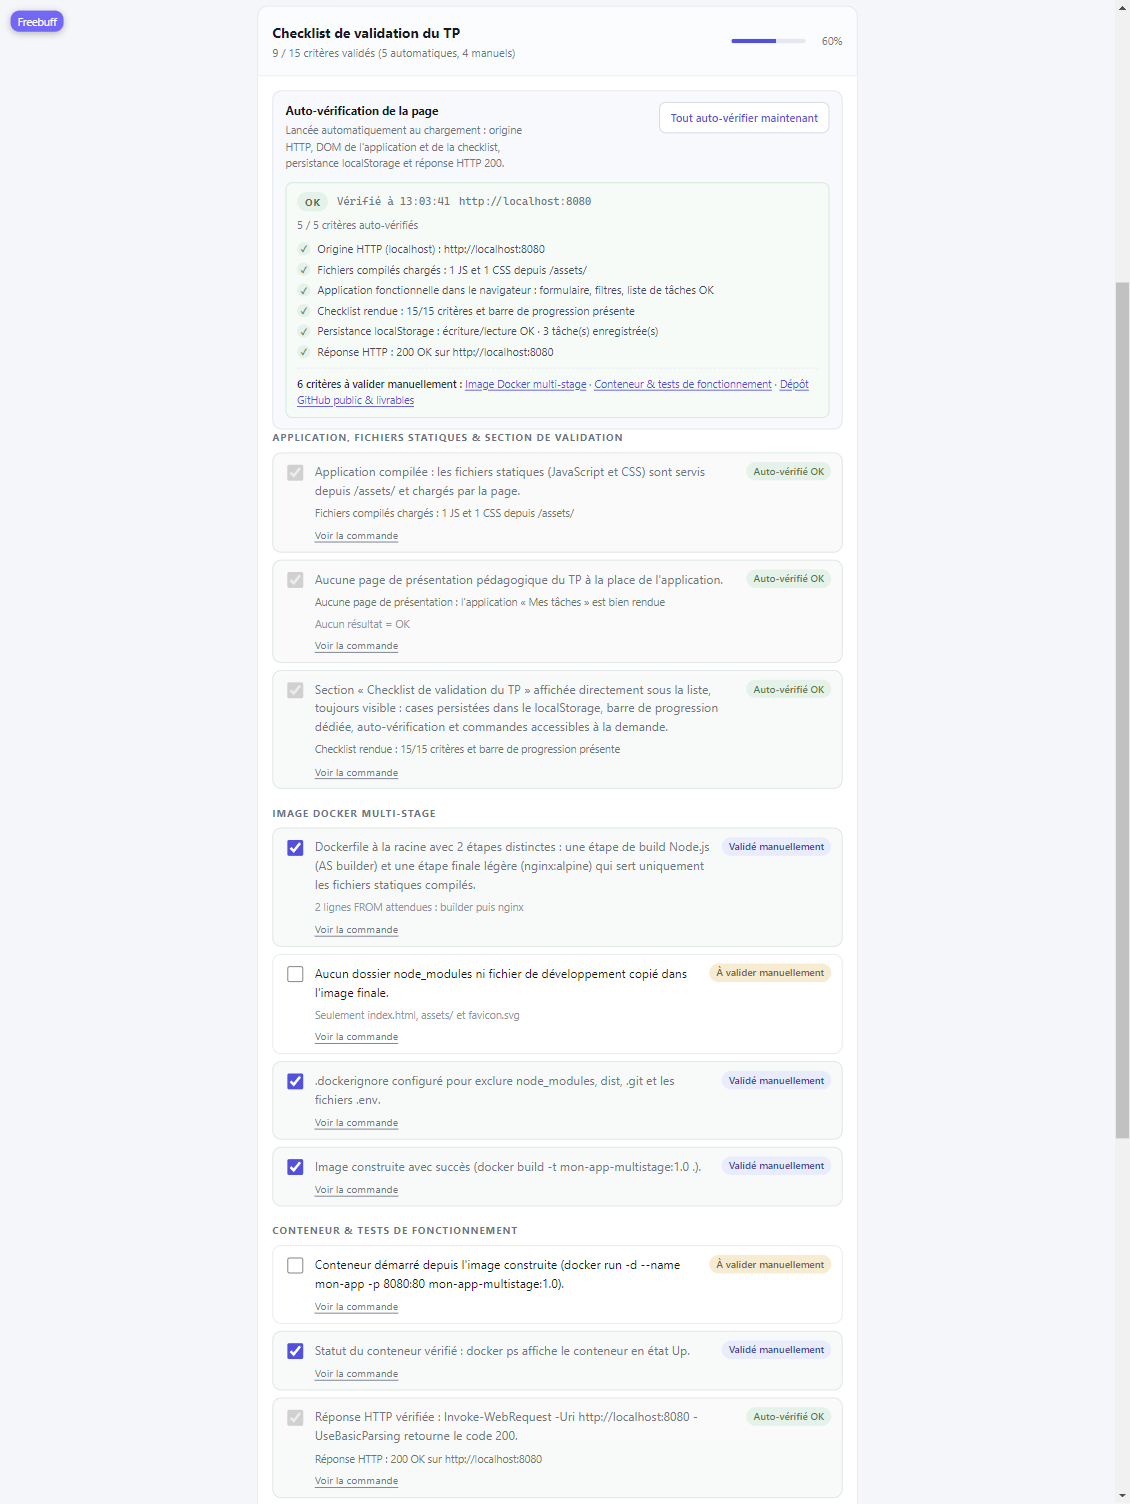
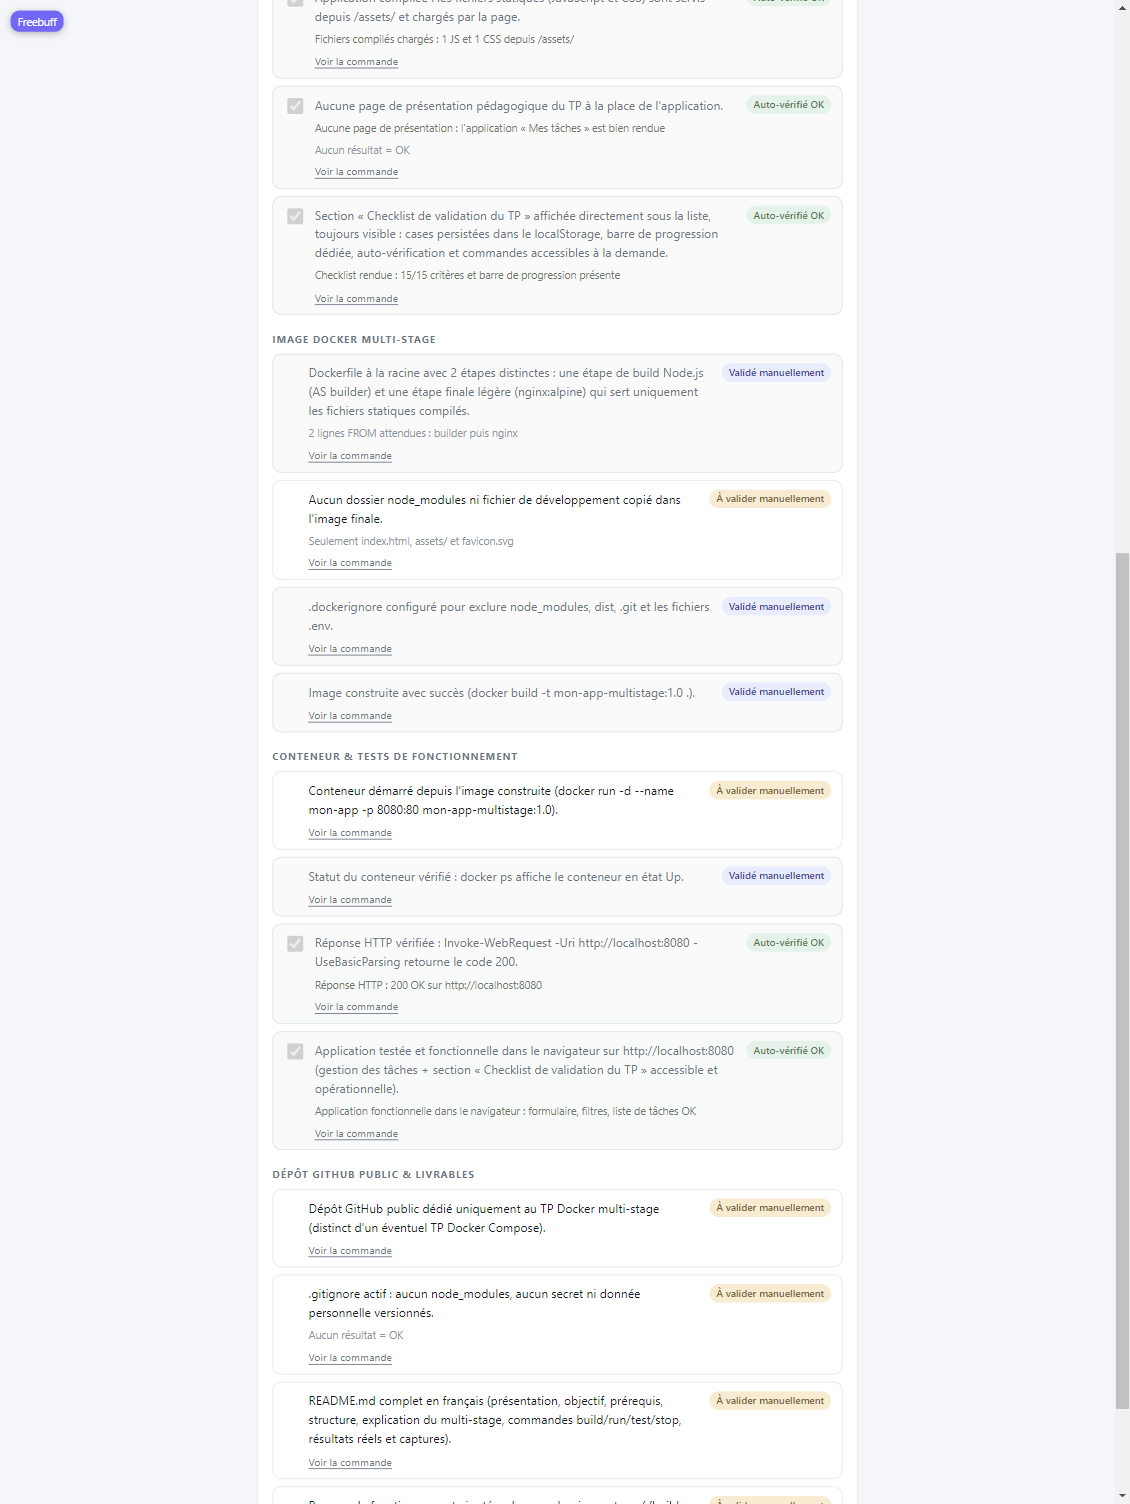
Retire les cases à cocher des critères validés manuellement
Le texte du critère manuel devient lui-même le bouton de validation (aria-pressed), ce qui supprime une case redondante ; seuls les critères auto-vérifiés gardent leur case indicatrice désactivée.

🤖 Generated with Codebuff

diff --git a/src/components/Checklist.jsx b/src/components/Checklist.jsx
@@ -361,24 +361,40 @@ export default function Checklist() {
                     className={[
                       "critere",
                       estCoche ? "critere--coche" : "",
-                      estAuto ? "critere--auto" : "",
+                      estAuto ? "critere--auto" : "critere--manuel",
                     ]
                       .filter(Boolean)
                       .join(" ")}
                   >
-                    <input
-                      id={identifiant}
-                      className="case"
-                      type="checkbox"
-                      checked={estCoche}
-                      disabled={estAuto}
-                      onChange={() => basculerCritere(element.id)}
-                    />
+                    {/* Seuls les critères auto-vérifiés gardent une case (indicateur
+                        désactivé) : les critères manuels n'en ont plus, le texte du
+                        critère sert de bouton de validation. */}
+                    {estAuto && (
+                      <input
+                        id={identifiant}
+                        className="case"
+                        type="checkbox"
+                        checked={estCoche}
+                        disabled
+                        readOnly
+                      />
+                    )}
                     <div className="critere__corps">
                       <div className="critere__ligne">
-                        <label className="critere__texte" htmlFor={identifiant}>
-                          {element.texte}
-                        </label>
+                        {estAuto ? (
+                          <label className="critere__texte" htmlFor={identifiant}>
+                            {element.texte}
+                          </label>
+                        ) : (
+                          <button
+                            type="button"
+                            className="critere__texte critere__texte--bouton"
+                            aria-pressed={estCoche}
+                            onClick={() => basculerCritere(element.id)}
+                          >
+                            {element.texte}
+                          </button>
+                        )}
                         <span className={classeStatut}>{statut}</span>
                       </div>
 

diff --git a/src/styles.css b/src/styles.css
@@ -592,6 +592,35 @@ body {
   color: var(--texte-doux);
 }
 
+/* Critères manuels : plus de case à cocher, le texte est le bouton de validation.
+   Le retrait aligne le texte sur celui des critères auto-vérifiés. */
+.critere--manuel {
+  padding-left: 40px;
+}
+
+.critere__texte--bouton {
+  border: 0;
+  background: none;
+  padding: 0;
+  font-family: inherit;
+  font-size: 0.86rem;
+  line-height: inherit;
+  color: inherit;
+  text-align: left;
+  cursor: pointer;
+}
+
+.critere__texte--bouton:hover {
+  text-decoration: underline;
+  text-underline-offset: 2px;
+}
+
+.critere__texte--bouton:focus-visible {
+  outline: 2px solid var(--accent);
+  outline-offset: 3px;
+  border-radius: 4px;
+}
+
 .critere__note {
   margin: 0;
   font-size: 0.75rem;

diff --git a/README.md b/README.md
@@ -30,8 +30,9 @@ Dépôt GitHub : <https://github.com/benoitvincent013-ship-it/TP-Docker-Multi-St
   manuellement : Image Docker multi-stage · Conteneur & tests · Dépôt GitHub »), qui font défiler
   la page jusqu'à la catégorie concernée ;
 - valider **d'un seul clic** les 10 critères non observables depuis le navigateur (Docker
-  Desktop, système de fichiers, GitHub) : le clic sur le texte du critère coche/décoche la case
-  et passe le statut à « Validé manuellement » ;
+  Desktop, système de fichiers, GitHub) : ces critères n'ont pas de case à cocher, leur texte est
+  un bouton — un clic le valide, un second le dévalide, et le statut passe à « Validé
+  manuellement » ;
 - afficher au besoin la commande PowerShell de chaque critère via le lien discret
   **« Voir la commande »** (toutes les commandes sont masquées par défaut), puis « Copier ».
 
